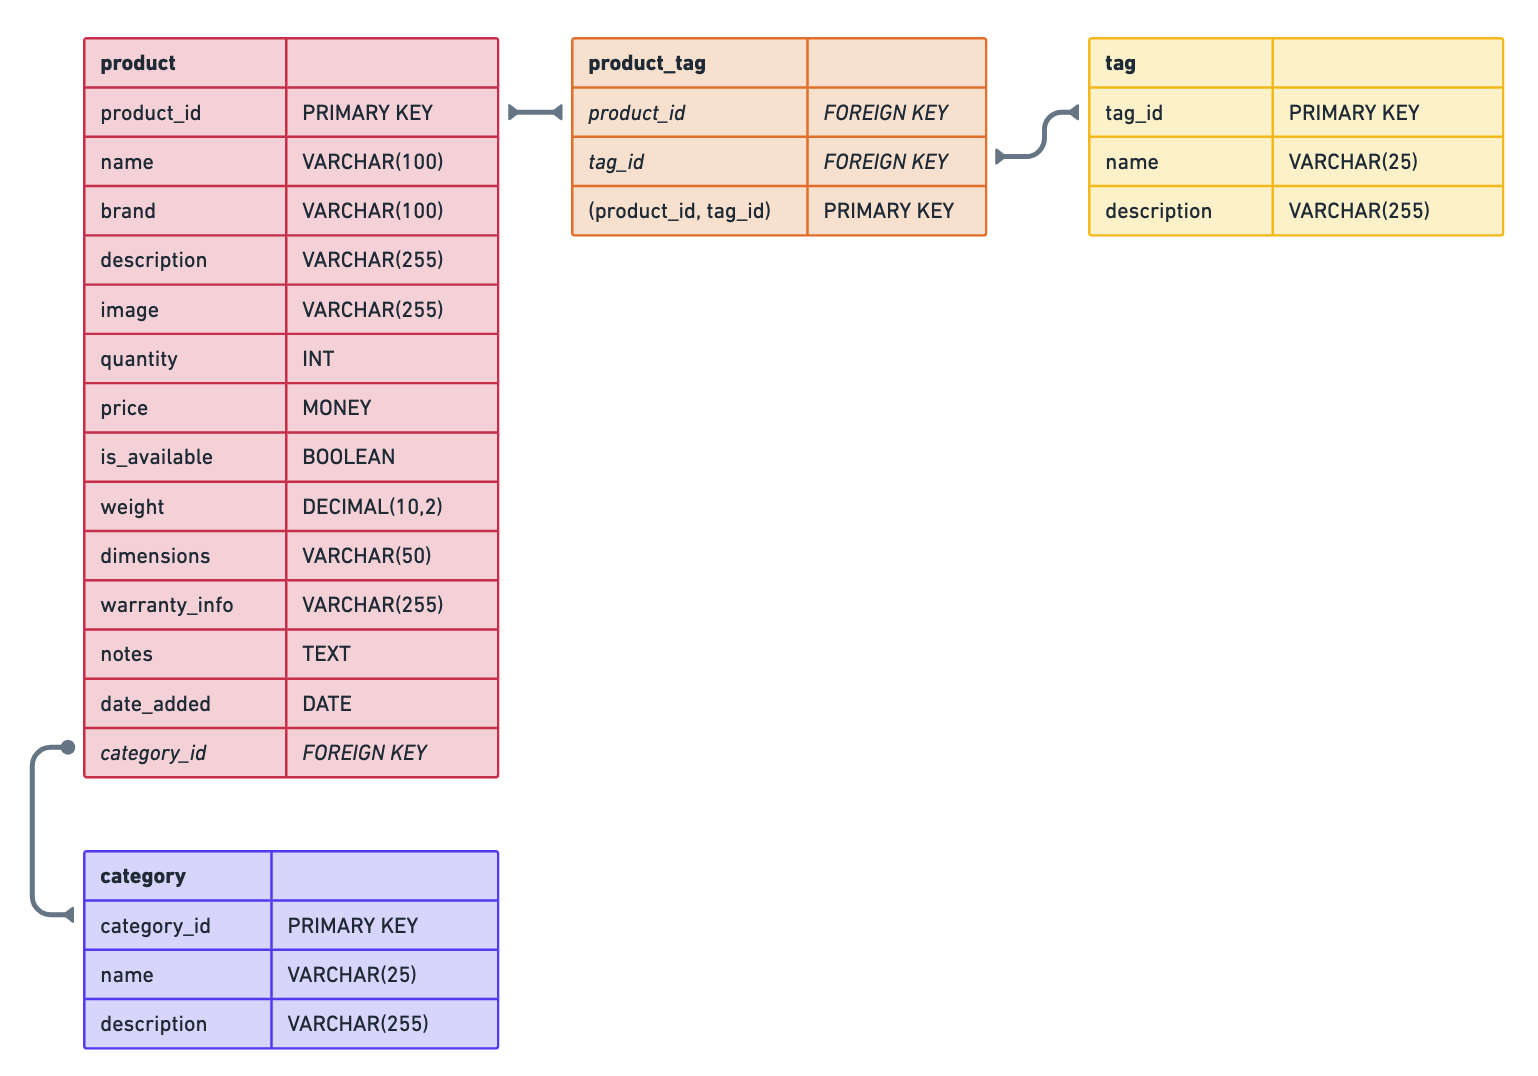
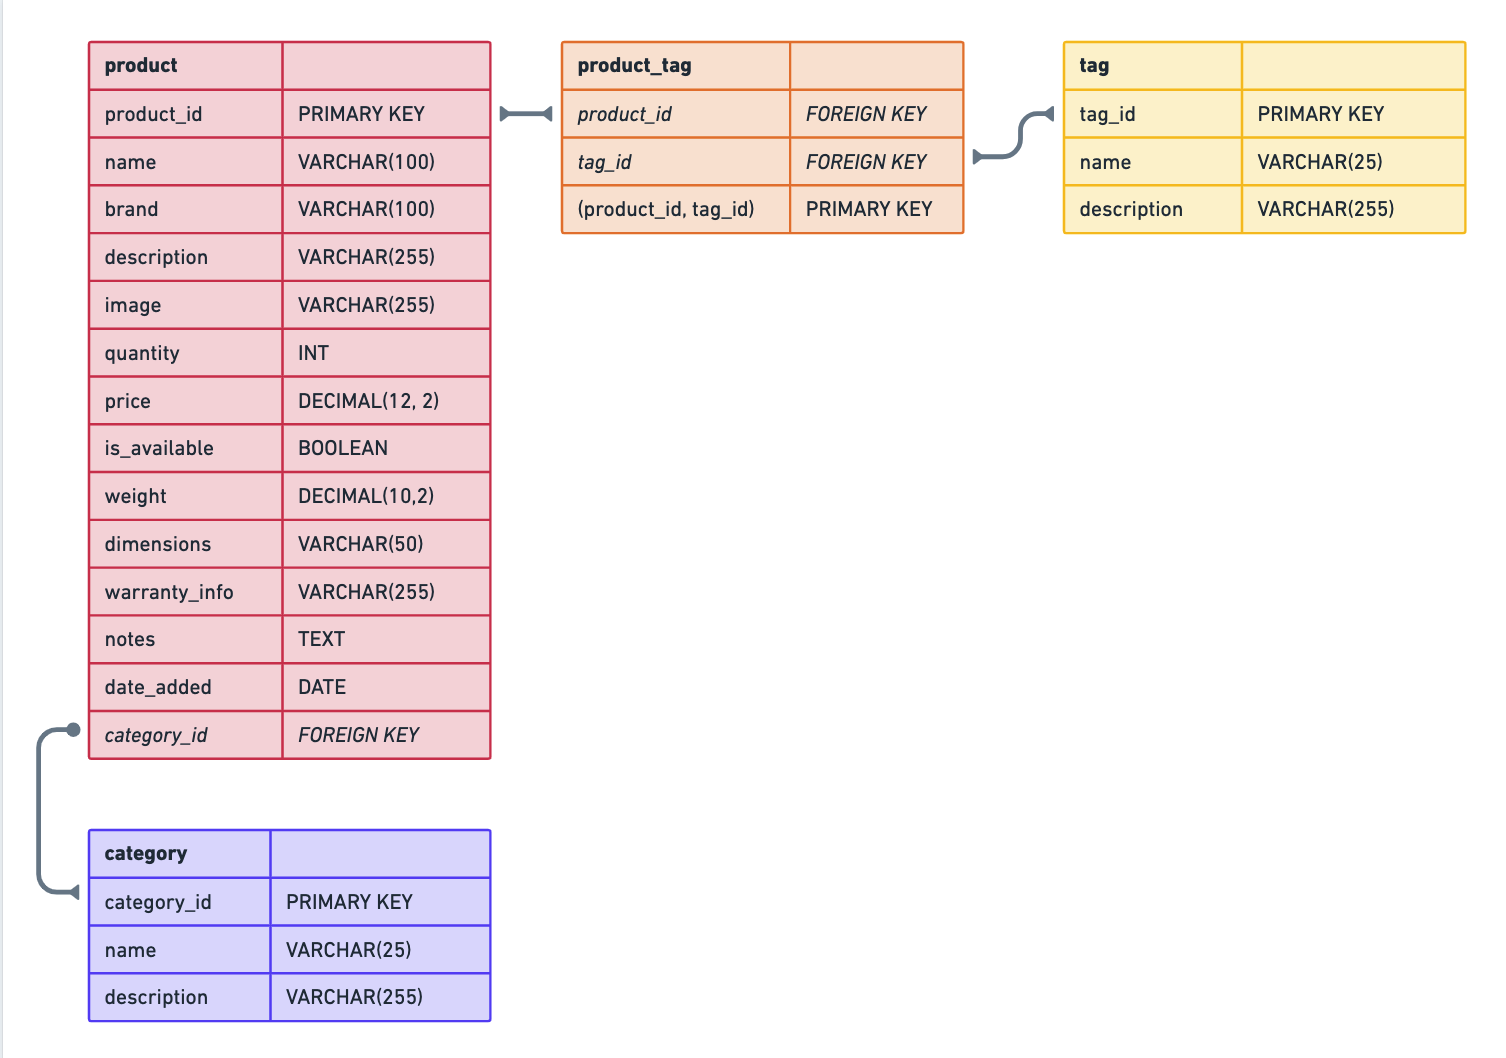
price is now represented in DECIMAL(12, 2) instead of MONEY for ease of use

Changed region(s): [[0.0, 0.0312, 0.9987, 0.9981]]

diff --git a/client/src/utils/schemas.js b/client/src/utils/schemas.js
@@ -10,7 +10,9 @@ export const productSchema = z.object({
     .string("Product brand is required!")
     .min(2, "Product brand must be at least 2 characters")
     .max(100, "Product brand must be less than 100 characters"),
-  price: z.number("Product price is required!"),
+  price: z
+    .number("Product price is required!")
+    .min(0.01, "Product price must be at least $0.01"),
   quantity: z.number("Product quantity is required!"),
   weight: z.number("Product weight is required!"),
   dimensions: z
@@ -37,6 +39,7 @@ export const productSchema = z.object({
     .default("No warranty information available."),
   category: z
     .string("Product category is required!")
+    .min(2, "Product category must be at least 2 characters")
     .max(25, "Product category must be less than 25 characters"),
   tags: z.array(z.string()).default([]),
 });

diff --git a/server/config/reset.js b/server/config/reset.js
@@ -143,7 +143,7 @@ const createProductTable = async () => {
         description         VARCHAR(255) NOT NULL,
         image               VARCHAR(255) NOT NULL,
         quantity            INT NOT NULL,
-        price               MONEY NOT NULL,
+        price               DECIMAL(12, 2) NOT NULL,
         is_available        BOOLEAN NOT NULL,
         weight              DECIMAL(10, 2) NOT NULL,
         dimensions          VARCHAR(50) DEFAULT 'Unknown',

diff --git a/README.md b/README.md
@@ -7,7 +7,8 @@
 🔗 **Link to deployed app:**
 
 ![All wireframes](demos/stock-pulse-wireframes-overview.png)
-> *StockPulse - Design Process Overview*
+
+> _StockPulse - Design Process Overview_
 
 ## Table of Contents
 
@@ -50,6 +51,7 @@
   - Assign products to multiple tags.
 
 - **User-friendly Interface:**
+
   - Browse products, view details, and manage inventory easily
 
 - **Inventory Control:**
@@ -57,10 +59,10 @@
   - Monitor product quantities and make adjustments as needed.
   - Receive low-stock alerts for timely restocking.
 
-
 ## Demos
 
 ### Product Management Modals
+
 ![demo](demos/playground-product-modals-1.gif)
 
 ## Getting Started
@@ -69,15 +71,14 @@
 2. **Set up the backend:**
    - Navigate to the backend directory: `cd server`
    - Install dependencies: `npm install`
-   - Update the environment variables: make a copy of `.env.template` and rename it to `.env` and fill in variables
+   - Update the environment variables: make a copy of `.env.template` and rename it to `.env` and fill in the variables
    - Run the backend server: `npm run start`
 3. **Set up the frontend:**
    - Navigate to the frontend directory: `cd client`
    - Install dependencies: `npm install`
    - Run the frontend app: `npm run dev`
 4. Open your browser and visit [http://localhost:5173](http://localhost:5173) to access StockPulse.
-
-**Note:** Service currently relies on `Railway` for database hosting and management. You can sign up and host your own instance. [Learn more about Railway](https://railway.app/)
+   **Note:** The service currently relies on `Railway` for database hosting and management. You can sign up and host your own instance. [Learn more about Railway](https://railway.app/)
 
 ## Technologies
 
@@ -87,7 +88,7 @@
   - **UI Components:** NextUI, TailwindCSS
   - **Icons:** Lucide Icons
   - **Data Fetching:** useQuery, Axios
-  - **Form Validation:** react-hook-form, zod
+  - **Form Validation:** react-hook-form, Zod
   - **Notifications/Toasts:** react-hot-toast
 - **Backend:**
   - **Languages:** Node.js
@@ -97,7 +98,8 @@
 - **Design:** Whimsical
 
 ## Kanban Board
-> You can find the full board on [Whimsical.]( https://whimsical.com/kanban-board-7xwirWDMp5HDHfk6cUiFwX)
+
+> You can find the full board on [Whimsical.](https://whimsical.com/kanban-board-7xwirWDMp5HDHfk6cUiFwX)
 
 ![Kanban Board](demos/stock-pulse-kanban-board.png)
 
@@ -138,7 +140,7 @@
 
 ### "Get All Users" Trace
 
-![High level trace](demos/stock-pulse-design-1.png)
+High-level trace](demos/stock-pulse-design-1.png)
 _Diagram ignores any authentication/authorization measures_.
 
 ## Tables
@@ -164,7 +166,7 @@ Stores information about individual products.
 | description   | VARCHAR(255)  | Description of the product                                | Not Null                                      |
 | image         | VARCHAR(255)  | Image of the product                                      | Not Null                                      |
 | quantity      | INT           | Quantity of the product in stock                          | Not Null                                      |
-| price         | MONEY         | Price of the product in USD                               | Not Null                                      |
+| price         | DECIMAL(12,2) | Price of the product in USD                               | Not Null                                      |
 | is_available  | BOOLEAN       | Information about the product's availability (true/false) | Not Null, true or false                       |
 | weight        | DECIMAL(10,2) | Weight of the product (in lbs)                            | Not Null                                      |
 | dimensions    | VARCHAR(50)   | Dimensions of the product (Length x Width x Height)       | Default: "Unknown."                           |
